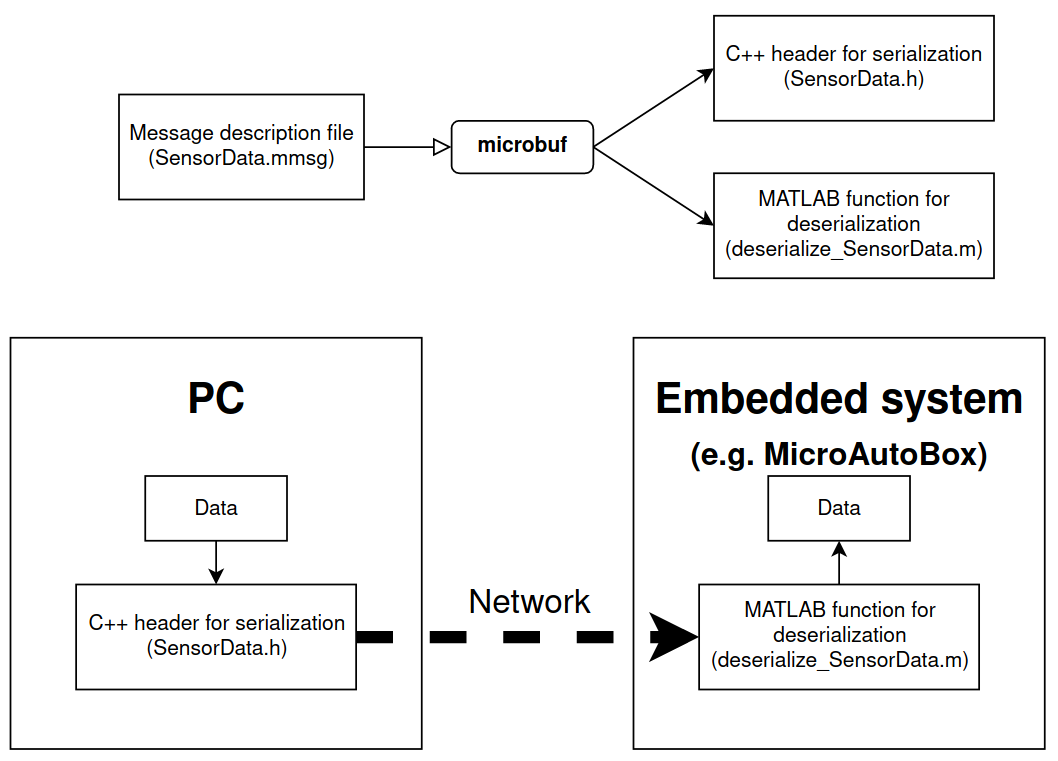
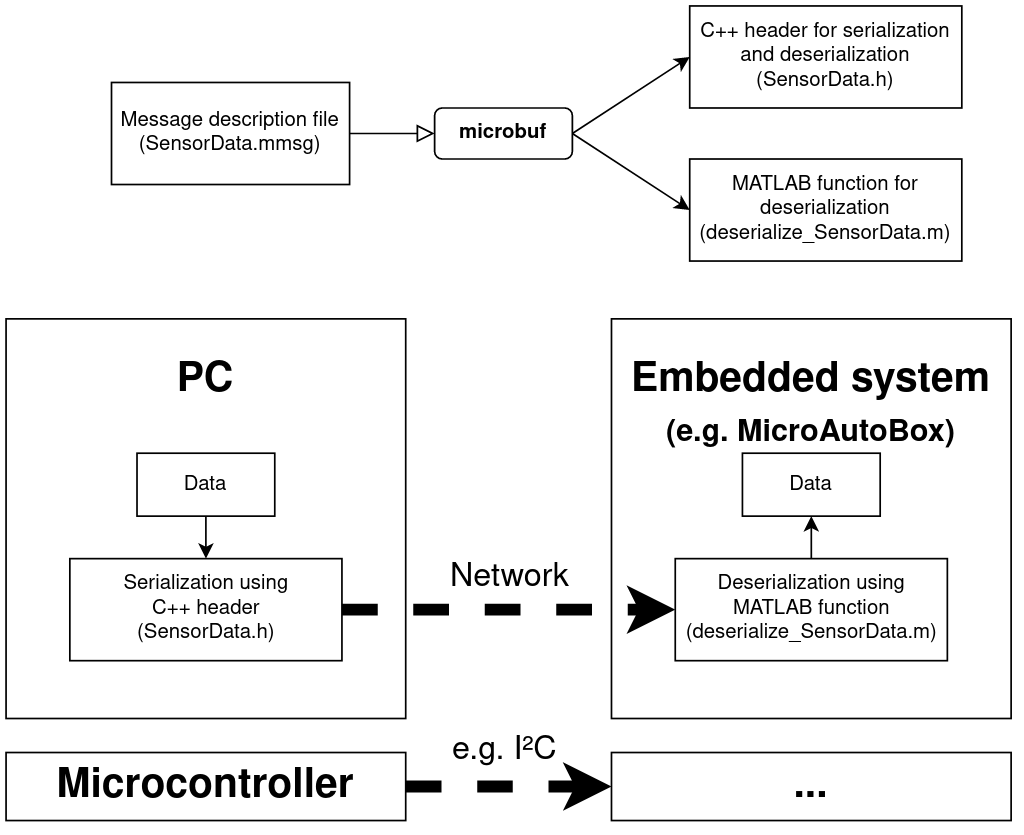
Update use case example

Changed region(s): [[0.0, 0.4231, 1.0, 0.9974], [0.0938, 0.0, 1.0, 0.3929], [0.0, 0.3627, 0.4062, 0.3929]]

diff --git a/README.md b/README.md
@@ -1,7 +1,7 @@
 # microbuf
 Data serialization toolchain for computers and embedded systems with C++ or MATLAB support
 
-## Visualized use cases
+## Visualized use case example
 ![Example use case](examples/microbuf-principle.png)
 
 ## Who might want to use `microbuf`?
